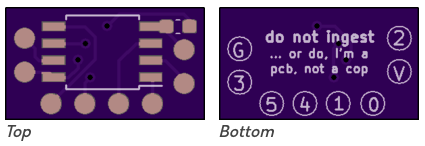
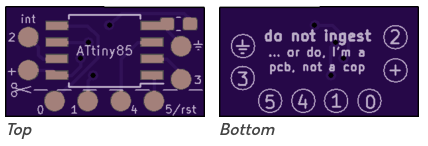
Update to v2

Changed region(s): [[0.0, 0.0274, 1.0, 0.9589], [0.0, 0.8493, 0.0918, 0.9589]]

diff --git a/README.md b/README.md
@@ -1,11 +1,11 @@
 # Tiny85_SP_Breakout
-Flex board breakout for the ATtiny85 SOIJ package, designed for the Game Boy SP, but useful for anything!
+Flex board breakout for the ATtiny85 SOIC package, designed for the Game Boy SP, but useful for anything!
 
 ![OSH Preview](osh_preview.png)
 
-## [Order on OSH Park](https://oshpark.com/shared_projects/oAFaPDbn)
-I recommend ordering the flex board option if you're trying to use this in a Game Boy SP!
+## [Order on OSH Park](https://oshpark.com/shared_projects/h6Am5436)
+I recommend ordering the flex board option!
 
 ## Parts
-- ATtiny85 SOIJ package
+- ATtiny85 SOIC package
 - 0603 0.1uF capacitor
